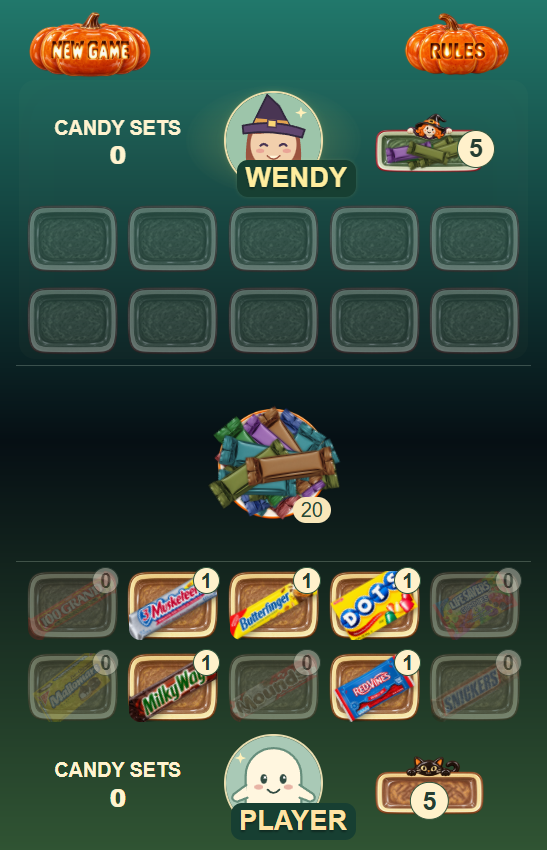
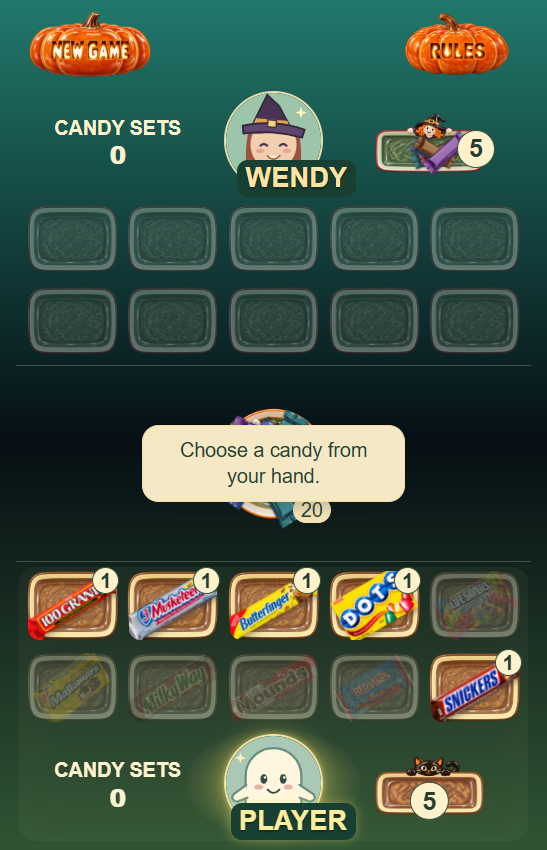
Add spinning ghost dish opening and starting player selection

diff --git a/games/candy-go-fish/candy-go-fish.js b/games/candy-go-fish/candy-go-fish.js
@@ -3,7 +3,7 @@
   // The generated companion keeps direct file:// opening functional.
   let config = window.CandyConfig;
   if (location.protocol !== 'file:') {
-    try { const response = await fetch('./assets/json/game-config.json?v=2026-1012-candy-cache'); if (!response.ok) throw new Error('Config unavailable'); config = await response.json(); }
+    try { const response = await fetch('./assets/json/game-config.json?v=2026-1012-candy-start'); if (!response.ok) throw new Error('Config unavailable'); config = await response.json(); }
     catch (error) { console.warn('Using bundled candy configuration.', error); }
   }
   const piles = CandyPiles();
@@ -31,6 +31,8 @@
   const quoteTiming = { fadeMs: config.appearance.quoteFadeMs, holdMs: config.appearance.quoteHoldMs };
   let retainedPlayerRequest = null;
   let retainedOpponentRequest = null;
+  let startingPlayer = null;
+  const openingPhase = () => ['pickStarter', 'spinningStarter', 'starterReady'].includes(phase);
   function setMessageSpeaker(player) {
     messageSpeaker = player;
     el('message').dataset.speaker = player;
@@ -100,6 +102,8 @@
     el('centerCircle').setAttribute('aria-label', 'Candy Dish; ' + (ready ? 'acknowledge and continue; ' : '') + (state?.pile.length ?? 0) + ' remaining');
   }
   function acknowledgeMiddle() {
+    if (!overlayOpen && phase === 'pickStarter') { spinStarter(); return; }
+    if (!overlayOpen && phase === 'starterReady') { dealGame(); return; }
     if (!middleAcknowledgementReady()) return;
     if (yesWait?.token === generation && !yesWait.released) {
       yesWait.released = true;
@@ -109,6 +113,10 @@
   }
   function render() {
     if (!state) return;
+    const opening = openingPhase();
+    el('table').classList.toggle('opening-board', opening);
+    el('table').classList.toggle('starter-chosen', phase === 'starterReady');
+    el('table').classList.toggle('starter-up', startingPlayer === 'wendy');
     el('gameOver').hidden = phase !== 'finished';
     el('gameOver').parentElement.classList.toggle('finished', phase === 'finished');
     document.querySelector('.wendy-portrait').classList.toggle('portrait-active', displayedTurn === 'wendy' && !state.finished);
@@ -144,7 +152,9 @@
           if (player === 'human' && quantity > 2) art.prepend(candyImage(type, 'third'));
           slot.append(art);
           slot.classList.toggle('empty', !quantity && !complete);
-          const badge = document.createElement('span'); badge.className = 'badge'; badge.textContent = complete ? '✓' : quantity; slot.append(badge);
+          if (complete || quantity > 0) {
+            const badge = document.createElement('span'); badge.className = 'badge'; badge.textContent = complete ? '✓' : quantity; slot.append(badge);
+          }
         } else slot.classList.add('unknown');
       }
     }
@@ -166,10 +176,14 @@
     }
     el('fishButton').hidden = el('fishButton').disabled;
     el('centerCircle').disabled = !['humanFishWait', 'wendyFishWait'].includes(phase) || overlayOpen;
-    const center = el('centerCircle'); center.replaceChildren();
+    const center = el('centerCircle');
+    if (!opening || !center.querySelector('img')) {
+    center.replaceChildren();
     const dish = document.createElement('img'); dish.src = './assets/candy-dish/ghost-plate-v2-300.png';
     dish.alt = ''; dish.draggable = false; center.append(dish);
     const number = document.createElement('span'); number.className = 'pile-number'; number.textContent = state.pile.length; center.append(number);
+    }
+    if (!opening) center.querySelector('img').style.transform = '';
     center.setAttribute('aria-label', 'Candy Dish; ' + (phase === 'wendyFishWait' ? 'let ' + opponentName + ' draw a candy' : 'draw a candy') + '; ' + state.pile.length + ' remaining');
     piles.render(state);
     // Keep the opponent question until the human actually answers Go Fish.
@@ -188,6 +202,18 @@
     el('message').classList.toggle('on-right', messageSpeaker === 'human');
     el('message').hidden = phase === 'finished' || phase === 'thinking' || (phase === 'choose' && Boolean(selected));
     updateMiddleControls();
+    if (opening) {
+      const ready = phase !== 'spinningStarter' && !overlayOpen;
+      center.disabled = !ready;
+      el('message').classList.remove('speech-request', 'yes-answer', 'waiting-breath', 'on-right');
+      el('message').classList.add('choose-instruction');
+      el('message').classList.toggle('opening-action', ready);
+      el('message').hidden = phase === 'spinningStarter';
+      el('message').style.visibility = '';
+      el('message').textContent = phase === 'starterReady' ? config.players[startingPlayer].name + ' goes first - click to start' : 'Click to choose a starting player';
+      el('message').setAttribute('role', 'button'); el('message').tabIndex = ready ? 0 : -1;
+      center.setAttribute('aria-label', phase === 'starterReady' ? 'Start the game' : 'Spin to choose a starting player');
+    } else el('message').classList.remove('opening-action');
   }
   async function waitActive(ms, token, interrupted = () => false, quoteWait = false) {
     let elapsed = 0;
@@ -330,10 +356,40 @@
     retainedOpponentRequest = null;
     yesWait = null;
     requestedGift = null;
-    generation++; piles.reset(); state = CandyEngine.create(config); memory = WendyPlayer.createMemory(); reported = false; selected = null;
+    generation++; piles.reset(); startingPlayer = null;
+    state = { pile: [], hands: { human: [], wendy: [] }, sets: { human: [], wendy: [] }, copies: config.rules.copiesPerType, finished: false };
+    phase = 'pickStarter'; displayedTurn = null; reported = false; selected = null;
     overlayOpen = false; el('overlay').hidden = true; el('table').inert = false;
     el('message').style.visibility = ''; el('message').classList.remove('speech-request', 'yes-answer', 'waiting-breath');
-    el('message').textContent = state.turn === 'human' ? humanName + ' starts this round.' : opponentName + ' starts this round.';
+    el('centerCircle').replaceChildren();
+    document.querySelectorAll('.stationary-speech, .flying-candy, .flying-token').forEach(node => node.remove());
+    render();
+  }
+  async function spinStarter() {
+    if (phase !== 'pickStarter' || overlayOpen) return;
+    startingPlayer = Math.random() < .5 ? 'human' : 'wendy';
+    phase = 'spinningStarter'; render();
+    const token = generation, dish = el('centerCircle').querySelector('img');
+    const target = 360 * 7 + (startingPlayer === 'human' ? 180 : 0);
+    const reduced = matchMedia('(prefers-reduced-motion: reduce)').matches;
+    const duration = reduced ? 80 : 3700;
+    const animation = dish.animate(reduced ? [{ opacity: .7 }, { opacity: 1 }] : [
+      { transform: 'rotate(0deg)', offset: 0, easing: 'cubic-bezier(.65,0,1,1)' },
+      { transform: 'rotate(180deg)', offset: .2, easing: 'linear' },
+      { transform: 'rotate(' + (target - 640) + 'deg)', offset: .58, easing: 'cubic-bezier(0,0,.2,1)' },
+      { transform: 'rotate(' + (target + 18) + 'deg)', offset: .86, easing: 'ease-in-out' },
+      { transform: 'rotate(' + (target - 9) + 'deg)', offset: .92, easing: 'ease-in-out' },
+      { transform: 'rotate(' + (target + 4) + 'deg)', offset: .97, easing: 'ease-out' },
+      { transform: 'rotate(' + target + 'deg)', offset: 1 }
+    ], { duration, fill: 'forwards' });
+    if (!await playVisual(animation, duration, token)) return;
+    dish.style.transform = 'rotate(' + (startingPlayer === 'human' ? 180 : 0) + 'deg)'; animation.cancel();
+    phase = 'starterReady'; render();
+  }
+  function dealGame() {
+    if (phase !== 'starterReady' || overlayOpen) return;
+    state = CandyEngine.create(config); state.turn = startingPlayer;
+    memory = WendyPlayer.createMemory();
     proceed(generation);
   }
   function finishGame() {
@@ -483,7 +539,7 @@
   el('fishButton').addEventListener('click', acknowledgeMiddle);
   el('message').addEventListener('click', acknowledgeMiddle);
   el('message').addEventListener('keydown', event => {
-    if (event.target === el('message') && ['Enter', ' '].includes(event.key) && middleAcknowledgementReady()) {
+    if (event.target === el('message') && ['Enter', ' '].includes(event.key) && (middleAcknowledgementReady() || openingPhase())) {
       event.preventDefault(); acknowledgeMiddle();
     }
   });
@@ -507,7 +563,6 @@
     const index = buttons.indexOf(document.activeElement);
     event.preventDefault(); buttons[(index + (event.shiftKey ? -1 : 1) + buttons.length) % buttons.length].focus();
   });
-  el('table').inert = true;
   buildSlots();
-  el('dialogAction').focus();
+  startGame();
 })();

diff --git a/games/candy-go-fish/index.html b/games/candy-go-fish/index.html
@@ -4,7 +4,7 @@
   <meta charset="utf-8">
   <meta name="viewport" content="width=device-width, initial-scale=1">
   <title>Go Fish Candy Edition</title>
-  <link rel="stylesheet" href="./candy-go-fish.css?v=2026-1012-candy-cache">
+  <link rel="stylesheet" href="./candy-go-fish.css?v=2026-1012-candy-start">
 </head>
 <body>
   <main id="table">
@@ -24,10 +24,10 @@
   </main>
   <div id="overlay" class="overlay"><section class="dialog" aria-modal="true" role="dialog" aria-labelledby="dialogTitle"><span class="eyebrow">A LITTLE FRIENDLY COMPETITION</span><h1 id="dialogTitle">Candy<br>Go Fish</h1><div id="dialogBody"><p>Ask Wendy for candies. Collect matching candies to claim a set.</p><p>Pick a candy you hold, then tap <b>Got any?</b> A match gives you one candy and another request. Go fish? Tap the Candy Dish to draw once, then switch turns.</p></div><button id="dialogAction" class="primary">Let's play</button><button id="dialogCancel" class="secondary" hidden>Keep playing</button></section></div>
   <script src="../game-helper.js"></script>
-  <script src="./assets/json/config-data.js?v=2026-1012-candy-cache"></script>
-  <script src="./game-engine.js?v=2026-1012-candy-cache"></script>
-  <script src="./computer-player.js?v=2026-1012-candy-cache"></script>
-  <script src="./candy-piles.js?v=2026-1012-candy-cache"></script>
-  <script src="./candy-go-fish.js?v=2026-1012-candy-cache"></script>
+  <script src="./assets/json/config-data.js?v=2026-1012-candy-start"></script>
+  <script src="./game-engine.js?v=2026-1012-candy-start"></script>
+  <script src="./computer-player.js?v=2026-1012-candy-start"></script>
+  <script src="./candy-piles.js?v=2026-1012-candy-start"></script>
+  <script src="./candy-go-fish.js?v=2026-1012-candy-start"></script>
 </body>
 </html>

diff --git a/games/candy-go-fish/candy-go-fish.css b/games/candy-go-fish/candy-go-fish.css
@@ -77,6 +77,15 @@ h2 { font-size: max(14px,4.5vw); }
   pointer-events: none;
 }
 #message.choose-instruction::before, #message.choose-instruction::after { content: none; }
+.opening-board .slot .candy-art, .opening-board .slot .badge,
+.opening-board .hand-count, .opening-board .pile-number { visibility: hidden; }
+.opening-board #message.opening-action { pointer-events: auto; cursor: pointer; }
+.opening-board .center-area { position: relative; z-index: 5; }
+.opening-board .center-controls { position: relative; display: block; height: 34vw; }
+.opening-board #centerCircle { position: absolute; left: 50%; top: 50%; width: 52.5vw; height: 52.5vw; transform: translate(-50%, -50%); }
+.opening-board #message { position: absolute; left: 50%; top: 50%; transform: translate(-50%, -50%); width: 72vw; min-height: 19.5vw; padding: 3vw 4.5vw; font-size: max(18px,5.4vw); border-radius: 4.5vw; }
+.opening-board.starter-chosen #message { width: 90vw; min-height: 16.5vw; padding: 1.5vw 4.5vw; transform: translate(-50%, calc(-50% + 35.5vw)); }
+.opening-board.starter-chosen.starter-up #message { transform: translate(-50%, calc(-50% - 35.5vw)); }
 #heldOpponentQuestion { grid-column: 1; grid-row: 1; font-size: max(12px,3.6vw); text-align: left; line-height: 1.2; }
 .speech-request { padding: 2vw; border: 0.3vw solid #f8dfa1; border-radius: 3vw 3vw 3vw 0.5vw; background: #f5e8c5; color: #254333; box-shadow: 0 1vw 3vw #061d2538; }
 .speech-speaker { display: block; font-size: max(12px,3.6vw); font-weight: normal; color: inherit; margin-bottom: 1vw; }

diff --git a/index.html b/index.html
@@ -31,7 +31,7 @@
 
     <!-- The ?v= tag forces phones to fetch fresh code after a publish.
      Change it (and APP_VERSION in app.js) whenever the code changes. -->
-    <link rel="stylesheet" href="./app/styles.css?v=2026-1012-candy-cache" />
+    <link rel="stylesheet" href="./app/styles.css?v=2026-1012-candy-start" />
   </head>
 
   <body>
@@ -124,6 +124,6 @@
       </div>
     </div>
 
-    <script src="./app/app.js?v=2026-1012-candy-cache"></script>
+    <script src="./app/app.js?v=2026-1012-candy-start"></script>
   </body>
 </html>

diff --git a/app/app.js b/app/app.js
@@ -20,7 +20,7 @@
 
 // Bump this (and the ?v= tags in index.html) whenever code changes, so
 // phones fetch fresh copies instead of old cached ones.
-const APP_VERSION = "2026-1012-candy-cache";
+const APP_VERSION = "2026-1012-candy-start";
 
 /* ------------------------------------------------------------------------
    1. Settings and the games list

diff --git a/games/candy-go-fish/codex-john-docs/START-SEQUENCE-2026-1012.md b/games/candy-go-fish/codex-john-docs/START-SEQUENCE-2026-1012.md
@@ -1,0 +1,15 @@
+# Empty-board opening and starter selection
+
+Implemented locally October 12 after published cache fix ba02f79. Initial load and replay/New Game now enter an empty board rather than the old Let's play dialog. Both grids show blank dishes, central/Wendy dishes have no candy piles, hand badges are hidden and set totals are zero. No deck is dealt yet.
+
+A cream tail-free message over the central ghost dish says "Click to choose a starting player". Clicking it or the dish locks the action and randomly selects the starter. A native transform animation lasts 3700ms: slow start, rapid turns, deceleration, then decreasing 18/-9/+4 degree rocking into the final orientation. Native image is head-up; Wendy is 0 degrees, human 180 degrees. No video or separate animation asset is needed.
+
+The result message uses the configured player name and says "<name> goes first - click to start". The dish stays in its original center position. Only the message moves 35.5vw above an upward ghost or below a downward ghost; overlap with the chosen player's grid is allowed at John's direction. This second click creates the deck, deals five candies to each player with no completed opening sets, applies the selected starting actor and resumes normal play. Dish returns to its usual orientation once gameplay begins.
+
+Opening phases: pickStarter, spinningStarter, starterReady. generation invalidates an old spin on a new round. Repeat clicks cannot repeat a deal. Rules/New Game dialogs lock input and pause the native animation; the spinning image survives dialog renders. Reduced motion uses an 80ms fade instead of rotation. Message supports Enter/Space.
+
+Opening appearance enlarged at John's direction: dish is 52.5vw (250% of normal), centered throughout. Opening prompt is 72vw wide with text/padding about 150% of normal; result box is 90vw wide to stay inside the board, with enlarged text and optional wrapping. Result message sits 35.5vw above/below the center. Both dish and result message start the deal; dish is locked only while spinning or a dialog is open. Gameplay returns to normal sizes.
+
+Verified both orientations and configured winner text at phone/desktop sizes, blank piles, result/dish separation, five-candy deal, Rules pause/resume, new-round reset and reduced motion. Updated browser regression passes full round, replay, Rules and file opening. start-round.cjs adapts browser/shell/quote/pile fixtures to the new opening and can choose a specific actor for deterministic scenarios. Actual device feel still needs user review.
+
+The opening center layer draws above both grids, avoiding dim dishes showing over the plate. This layer override is removed during gameplay; normal-size dish and all 20 initial candy sprites were verified at phone/desktop sizes. Zero-count player grid badges are omitted; positive counts and set checks remain. Publishing cache version: 2026-1012-candy-start.

diff --git a/games/candy-go-fish/codex-john-docs/CONTINUATION-2026-1011.md b/games/candy-go-fish/codex-john-docs/CONTINUATION-2026-1011.md
@@ -2,6 +2,8 @@
 
 This is the authoritative current-state entry point. Overall gameplay is acceptable; appearance work is ongoing. Historical design notes and checkpoint copies record alternatives and must not override this handoff.
 
+October 12 opening checkpoint after ba02f79: the [empty-board starter sequence](START-SEQUENCE-2026-1012.md) replaces the initial Let's play dialog. Click the cream prompt over the empty ghost dish, watch a 3.7-second spin settle toward a random actor, then click the winner message above/below the ghost to deal and begin. Initial load, replay and New Game use this sequence. Dialogs pause the spin; reduced motion uses a fade. User requested commit/push of this checkpoint. Opening dish is 250% size, messages approximately 150%, results offset 35.5vw, zero grid badges hidden. Cache version: 2026-1012-candy-start.
+
 October 12 UI update supersedes the footer descriptions below: both score labels now read CANDY SETS. The player's right-side brown/yellow black-cat candy dish is restored, replacing Total candies text. Its live hand-count badge is horizontally centered and lowered to 75% of the dish height to leave the cat's face visible. It is a count display; the player's candies remain in the grid. The restored layout was verified at 338x526 and 547x850: artwork loads, both labels update and the page does not overflow.
 
 ## Current board and artwork

diff --git a/games/candy-go-fish/codex-john-docs/README.md b/games/candy-go-fish/codex-john-docs/README.md
@@ -5,6 +5,7 @@ Updated October 12, 2026.
 Start with [current handoff](CONTINUATION-2026-1011.md), then [next TODOs](NEXT-TODOS.md). Those describe the implemented three-candy game and the user's next appearance/sound priorities.
 
 - [Rules and gameplay](RULES-AND-GAMEPLAY.md)
+- [Empty-board starter sequence](START-SEQUENCE-2026-1012.md)
 - [UI and presentation](UI-AND-PRESENTATION.md)
 - [Candy pile preview and tuning](PILE-PREVIEW-2026-1011.md)
 - [Configuration](../assets/json/README.md)
